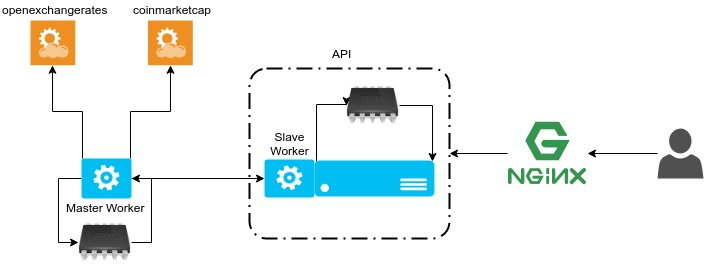
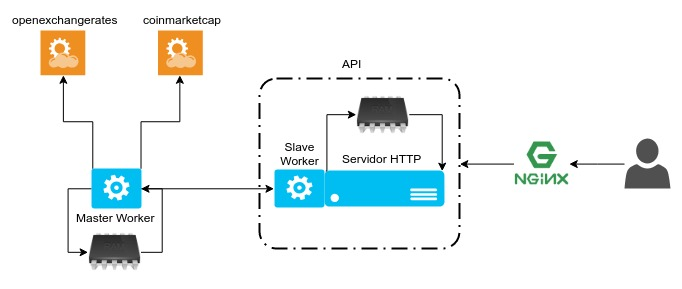
Update README

diff --git a/README.md b/README.md
@@ -4,17 +4,105 @@ Este projeto é a solução do desafio explicado em [CHALLENGE.md](CHALLENGE.md)
 
 Ele foi desenvolvido em [Go](https://golang.org/) com framework [echo](https://echo.labstack.com/) para HTTP
 
+## Pré-requisitos
+
+Você precisará de uma API Key da [openexchangerates](https://openexchangerates.org) para rodar. (No PR foi enviada uma para ser utilizada)
+
+Você pode rodar a aplicação em containers docker ou sem containers buildando o projeto a partir do source.
+
+### Com docker
+
+Você precisa ter instalado:
+
+- [Docker](https://www.docker.com/) versão 18.x
+- [Docker Compose](https://docs.docker.com/compose/) versão 1.22+
+
+### Sem docker
+
+Você precisa ter instalado:
+
+- [Go](https://golang.org/) v1.11
+
+## Instalando e Rodando
+
+Você precisará de setar uma variável de ambiente (`OXRAPIKEY`) ou, caso rodando em docker, criar arquivos de .env para passar a API Key.
+
+Por padrão, serão usadas as configurações do ambiente `dev`, para você mudar, basta setar a variável `GOCONFIGPATH` para o caminho do json de configurações (dentro da pasta `config`).
+
+Uma observação é que com o Go v1.11 as dependências do projeto (descritas em go.mod) serão baixadas e instaladas no momento do build.
+
+### Com docker
+
+Crie um arquivo na raiz do projeto com o nome `.env_masterworker`, e coloque nele a API Key da openexchangerates como no exemplo:
+
+```
+OXRAPIKEY=<aqui vai a API Key, sem os "<>">
+```
+
+Para buildar, levantar toda a infra e rodar:
+
+```
+$ sudo docker-compose up -d
+```
+
+Para descer o servidor:
+
+```
+$ sudo docker-compose down
+```
+
+### Sem docker
+
+Caso tenha baixado o projeto dentro da sua `GOPATH`, antes de buildar, sete a variável de ambiente do Go 1.11:
+```
+$ export GO111MODULE=on
+```
+
+Para buildar o Master Worker:
+```
+$ go build -mod=vendor -o masterworker cmd/masterworker/main.go
+```
+
+Para buildar a API:
+```
+$ go build -mod=vendor -o server cmd/api/main.go
+```
+
+O Master Worker deve ser levantado primeiro, depois a API.
+
+Para subir o Master Worker você precisará setar as variáveis de ambiente `OXRAPIKEY` e `GOCONFIGPATH` primeiro.
+
+Então, basta rodar os binários já buildados:
+```
+$ export OXRAPIKEY=<sua API Key da openexchangerates>
+$ export GOCONFIGPATH=config/config.dev.json
+$ ./masterworker
+```
+Em outro terminal, sete a variável `GOCONFIGPATH` e rode a API:
+```
+$ export GOCONFIGPATH=config/config.dev.json
+$ ./server
+```
+
 ## Arquitetura
 
-Foram implementadas 2 arquiteturas:
+O projeto suporta 3 arquiteturas:
 
-- Com [nginx](https://www.nginx.com/)
-![Arquitetura com nginx](imgs/arquitetura_nginx.jpg)
+1. Com [nginx](https://www.nginx.com/) como load balancer
 
-- Sem [nginx](https://www.nginx.com/)
+![Arquitetura com nginx como load balancer](imgs/arquitetura_nginx_lb.jpg)
+
+2. Com [nginx](https://www.nginx.com/) para caching
+
+![Arquitetura com nginx para caching](imgs/arquitetura_nginx.jpg)
+
+3. Sem [nginx](https://www.nginx.com/)
+
 ![Arquitetura sem nginx](imgs/arquitetura.jpg)
  
- Após adicionar nginx na frente da API para caching foi percebido uma perda de performance. Portanto, a arquitetura recomendada é a sem nginx.
+A implementação atual é escalável, mas não tem configurações feitas para auto-escalar ou subir múltiplos nós de API. Então, a arquitetura 2 tem um nginx na frente da API apenas para caching, não como load balancer.
+
+No entanto, foi percebida uma perda de performance da mudança da arquitetura 3 (sem nginx) para a 2. Portanto, a arquitetura recomendada para rodar aplicação agora é a sem nginx. (Os benchmarks mostrados aqui foram feitos nela)
 
  ### Componentes da arquitura
 
